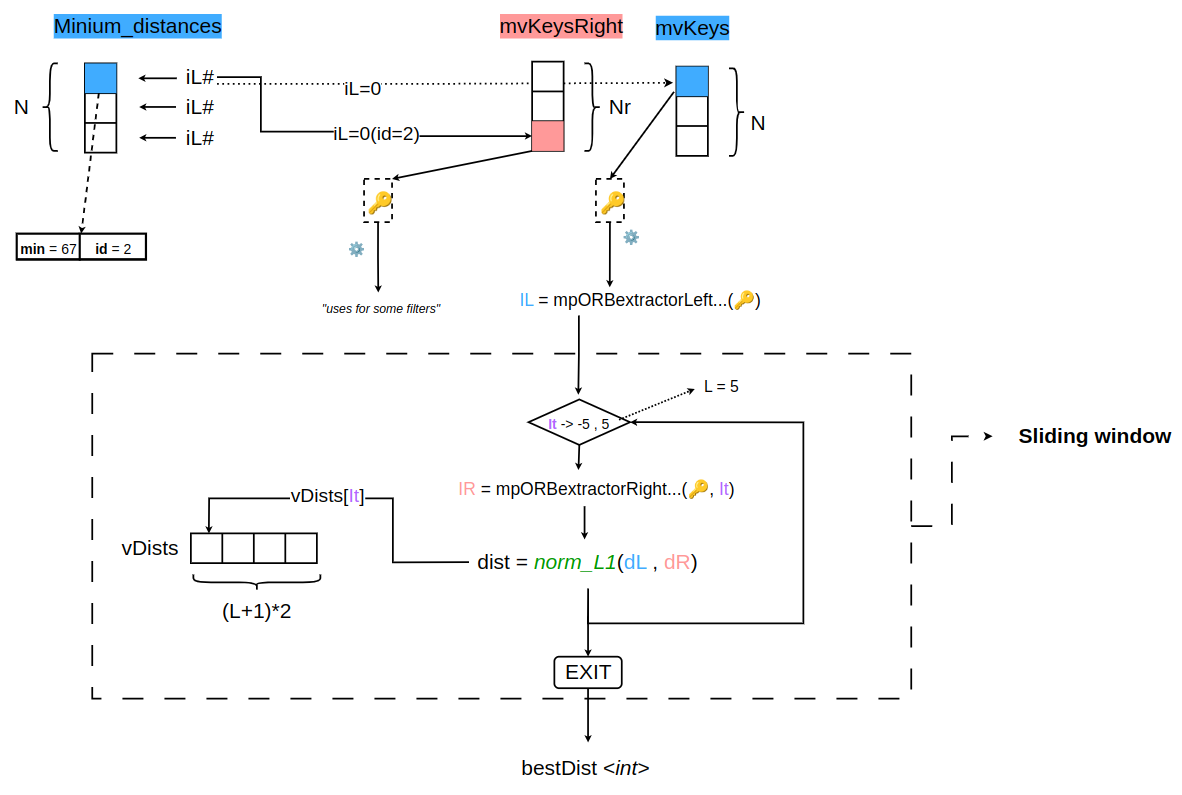
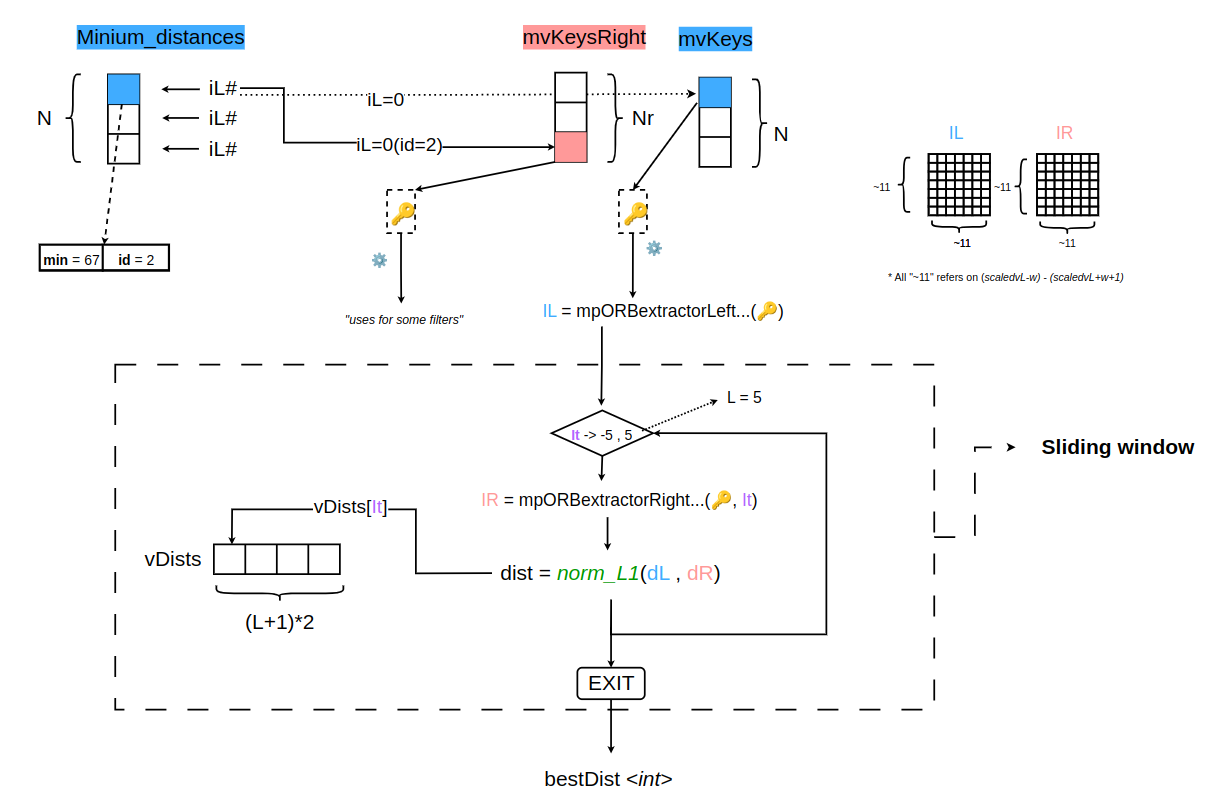
Add info on opt + starting sliding window coding

diff --git a/Cuda/Cuda_experiment/README.md b/Cuda/Cuda_experiment/README.md
@@ -30,7 +30,7 @@ And explanation of the iterative algoritmh.
 
 <img src="img/sliding_window_explain.png" width=50% alt=""> </img>
 
-### opt1_simulation.cu
+### opt1_simulation.cu![alt text](GPU_opt1_slidingWindow.png)
 
 #### Simulazione
 
